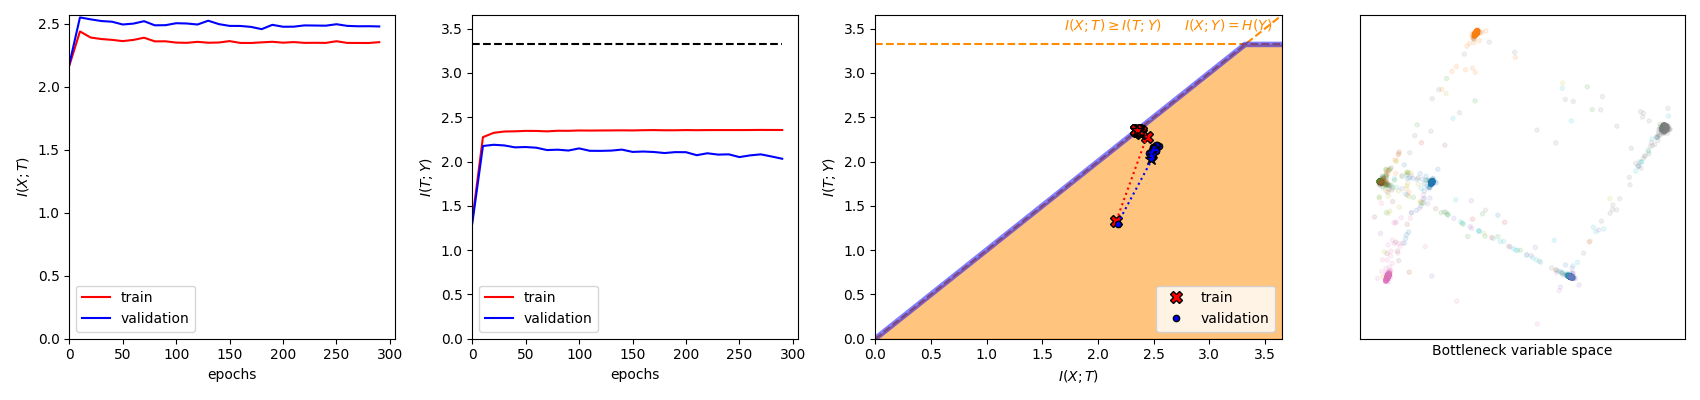
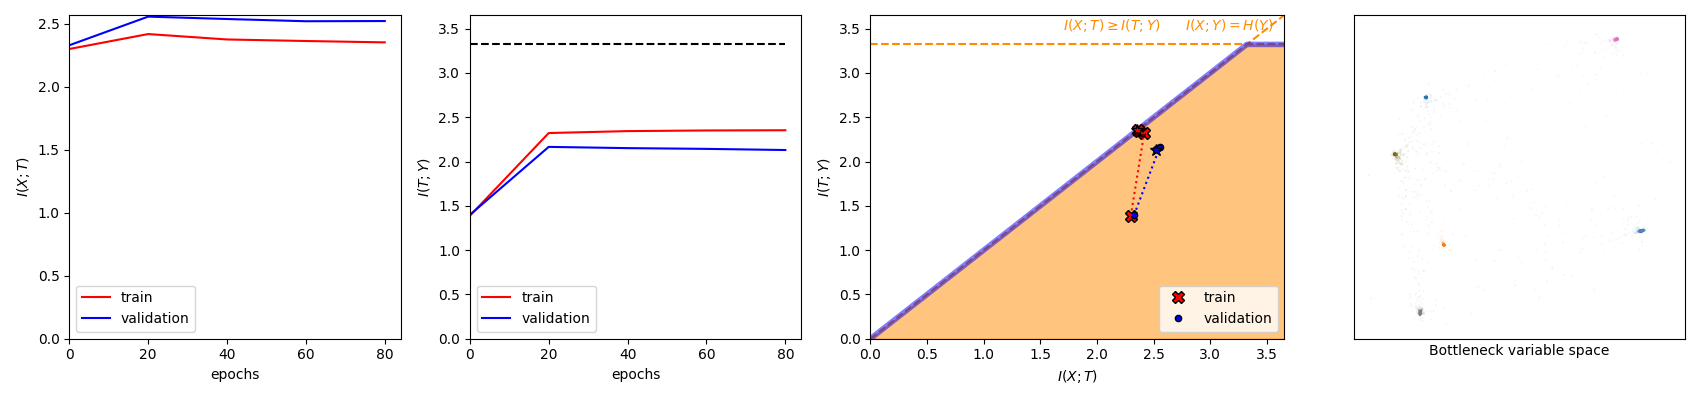
Modified Early Stopping routine

diff --git a/src/nonlinearIB.py b/src/nonlinearIB.py
@@ -218,63 +218,10 @@ class NonlinearIB(torch.nn.Module):
                 loss = self.get_loss(train_IXT,train_ITY)
                 loss.backward()
                 optimizer.step()
-
+            
             # Update learning rate
-            #learning_rate_scheduler.step()
-
-            # Report results
-            if epoch % eval_rate == 0:
-                with torch.no_grad():
-                    epochs_vec[report] = epoch
-
-                    train_IXT_vec[report], train_ITY_vec[report], train_loss_vec[report], train_performance_vec[report] = \
-                        self.evaluate_network(train_loader,n_sgd_batches)
-                    test_IXT_vec[report], test_ITY_vec[report], test_loss_vec[report], test_performance_vec[report] = \
-                        self.evaluate_network(test_loader,1)
-
-                if verbose:
-                    print('\n\n** Results report **')
-                    print(f'- Train | Test I(X;T) = {train_IXT_vec[report]} | {test_IXT_vec[report]}')
-                    print(f'- Train | Test I(T;Y) = {train_ITY_vec[report]} | {test_ITY_vec[report]}')
-                    if self.problem_type == 'classification':
-                        print(f'- Train | Test accuracy = {train_performance_vec[report]} | {test_performance_vec[report]}\n')
-                    else:
-                        print(f'- Train | Test MSE = {train_performance_vec[report]} | {test_performance_vec[report]}\n')
-
-                report += 1
-
-                # Visualize results and save results
-                if visualization:
-                    with torch.no_grad():
-                        _, (visualize_x,visualize_y) = next(enumerate(test_loader))
-                        visualize_t = self.network.encode(visualize_x[:n_points],random=False)
-                        
-                        plot_results(train_IXT_vec[:report], test_IXT_vec[:report],
-                            train_ITY_vec[:report], test_ITY_vec[:report],
-                            train_loss_vec[:report], test_loss_vec[:report],
-                            pca.fit_transform(visualize_t), visualize_y[:n_points], epochs_vec[:report], self.HY, self.K,
-                            fig, ax, self.problem_type)
-                        
-                        plt.savefig(figs_dir + name_base + '--image.pdf', format = 'pdf')
-                        plt.savefig(figs_dir + name_base + '--image.png', format = 'png')
-
-                        print('The image is updated at ' + figs_dir + name_base + '--image.png')
-
-                        np.save(logs_dir + name_base + '--hidden_variables', visualize_t)
-                        np.save(logs_dir + name_base + '--labels', visualize_y)
-                
-                # Save the other results
-                with torch.no_grad():
-                    np.save(logs_dir + name_base + '--train_IXT', train_IXT_vec[:report])
-                    np.save(logs_dir + name_base + '--validation_IXT', test_IXT_vec[:report])
-                    np.save(logs_dir + name_base + '--train_ITY', train_ITY_vec[:report])
-                    np.save(logs_dir + name_base + '--validation_ITY', test_ITY_vec[:report])
-                    np.save(logs_dir + name_base + '--train_loss', train_loss_vec[:report])
-                    np.save(logs_dir + name_base + '--validation_loss', test_loss_vec[:report])
-                    np.save(logs_dir + name_base + '--train_performance', train_performance_vec[:report])
-                    np.save(logs_dir + name_base + '--validation_performance', test_performance_vec[:report])
-                    np.save(logs_dir + name_base + '--epochs', epochs_vec)
-                
+            learning_rate_scheduler.step()
+            
             # Check for early stopping 
             with torch.no_grad():
                 _,_,loss_curr,_ = self.evaluate_network(validation_loader,1)
@@ -284,5 +231,60 @@ class NonlinearIB(torch.nn.Module):
                     early_stopping_count = 0
                 if early_stopping_count >= early_stopping_lim:
                     break
+            
+            # If the results are improving
+            if early_stopping_count == 0:
+                # Report results
+                if epoch % eval_rate == 0:
+                    with torch.no_grad():
+                        epochs_vec[report] = epoch
+
+                        train_IXT_vec[report], train_ITY_vec[report], train_loss_vec[report], train_performance_vec[report] = \
+                            self.evaluate_network(train_loader,n_sgd_batches)
+                        test_IXT_vec[report], test_ITY_vec[report], test_loss_vec[report], test_performance_vec[report] = \
+                            self.evaluate_network(test_loader,1)
+
+                    if verbose:
+                        print('\n\n** Results report **')
+                        print(f'- Train | Test I(X;T) = {train_IXT_vec[report]} | {test_IXT_vec[report]}')
+                        print(f'- Train | Test I(T;Y) = {train_ITY_vec[report]} | {test_ITY_vec[report]}')
+                        if self.problem_type == 'classification':
+                            print(f'- Train | Test accuracy = {train_performance_vec[report]} | {test_performance_vec[report]}\n')
+                        else:
+                            print(f'- Train | Test MSE = {train_performance_vec[report]} | {test_performance_vec[report]}\n')
+
+                    report += 1
+
+                    # Visualize results and save results
+                    if visualization:
+                        with torch.no_grad():
+                            _, (visualize_x,visualize_y) = next(enumerate(test_loader))
+                            visualize_t = self.network.encode(visualize_x[:n_points],random=False)
+                            
+                            plot_results(train_IXT_vec[:report], test_IXT_vec[:report],
+                                train_ITY_vec[:report], test_ITY_vec[:report],
+                                train_loss_vec[:report], test_loss_vec[:report],
+                                pca.fit_transform(visualize_t), visualize_y[:n_points], epochs_vec[:report], self.HY, self.K,
+                                fig, ax, self.problem_type)
+                            
+                            plt.savefig(figs_dir + name_base + '--image.pdf', format = 'pdf')
+                            plt.savefig(figs_dir + name_base + '--image.png', format = 'png')
+
+                            print('The image is updated at ' + figs_dir + name_base + '--image.png')
+
+                            np.save(logs_dir + name_base + '--hidden_variables', visualize_t)
+                            np.save(logs_dir + name_base + '--labels', visualize_y)
+                    
+                    # Save the other results
+                    with torch.no_grad():
+                        np.save(logs_dir + name_base + '--train_IXT', train_IXT_vec[:report])
+                        np.save(logs_dir + name_base + '--validation_IXT', test_IXT_vec[:report])
+                        np.save(logs_dir + name_base + '--train_ITY', train_ITY_vec[:report])
+                        np.save(logs_dir + name_base + '--validation_ITY', test_ITY_vec[:report])
+                        np.save(logs_dir + name_base + '--train_loss', train_loss_vec[:report])
+                        np.save(logs_dir + name_base + '--validation_loss', test_loss_vec[:report])
+                        np.save(logs_dir + name_base + '--train_performance', train_performance_vec[:report])
+                        np.save(logs_dir + name_base + '--validation_performance', test_performance_vec[:report])
+                        np.save(logs_dir + name_base + '--epochs', epochs_vec[:report])
 
 

diff --git a/src/visualization.py b/src/visualization.py
@@ -65,12 +65,12 @@ def plot_results(IXT_train, IXT_validation, ITY_train, ITY_validation,
     npoints = 10000
     ax[3].clear()
     if problem_type == 'classification':
-        ax[3].scatter(t[0:npoints,0], t[0:npoints,1], c=y[0:npoints], cmap='tab10', marker='.', alpha=0.1)
+        ax[3].scatter(t[0:npoints,0], t[0:npoints,1], c=y[0:npoints], cmap='tab10', marker='.', s=0.005)
     else:
-        ax[3].scatter(t[0:npoints,0], t[0:npoints,1], c=y[0:npoints], cmap='seismic', marker='.', alpha=0.1)
-        m, vm = t.mean(0), t.var(0).max()
-        ax[3].set_xlim([m[0]-0.75*vm,m[0]+0.75*vm])
-        ax[3].set_ylim([m[1]-0.75*vm,m[1]+0.75*vm])
+        ax[3].scatter(t[0:npoints,0], t[0:npoints,1], c=y[0:npoints], cmap='seismic', marker='.', s=0.05)
+        m, sd = np.median(t,0) , np.std(t,0)
+        ax[3].set_xlim([m[0]-2.5*sd[0],m[0]+2.5*sd[0]])
+        ax[3].set_ylim([m[1]-2.5*sd[1],m[1]+2.5*sd[1]])
     ax[3].set_xticks([])
     ax[3].set_yticks([])
     ax[3].set_xlabel('Bottleneck variable space')

diff --git a/src/kde_estimation_mi.py b/src/kde_estimation_mi.py
@@ -1,7 +1,6 @@
 import torch
 import math
 import numpy as np
-import scipy.special
 
 ################################################################################
 ## KDE estimation of the information (PyTorch)

diff --git a/src/study_behavior.py b/src/study_behavior.py
@@ -7,6 +7,7 @@ import os
 import datetime
 import numpy as np
 import multiprocessing
+import math
 
 torch.set_num_threads(1)
 

diff --git a/README.md b/README.md
@@ -32,9 +32,13 @@ This repository contains the updated implementation from 2019. To see the origin
 
 ### On California Housing 
 
-#### Normal IB Lagrangian. Beta = 0.01
+#### Exponential IB Lagrangian with parameter 0.3. Beta = 0.005
 
-![](./examples/housing_none_beta_0,01_image.png)
+![](./examples/housing_exp_0,3_beta_0,05_image.png)
+
+#### Behavior of the normal IB Lagrangian.
+
+![](./examples/housing_behavior_image.png)
 
 
 ## Requirements
